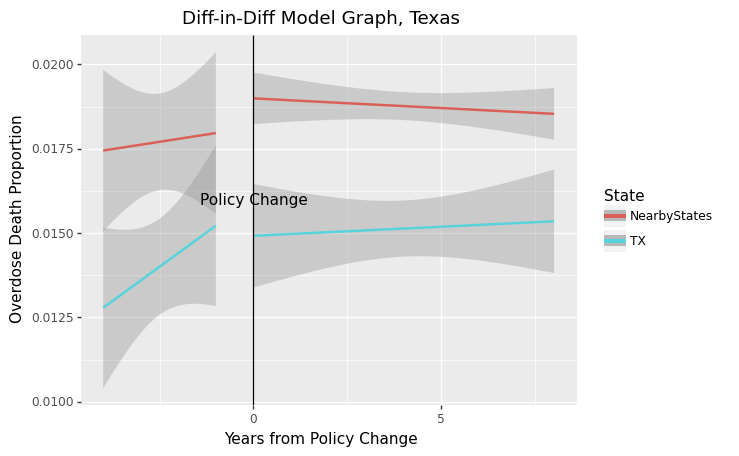
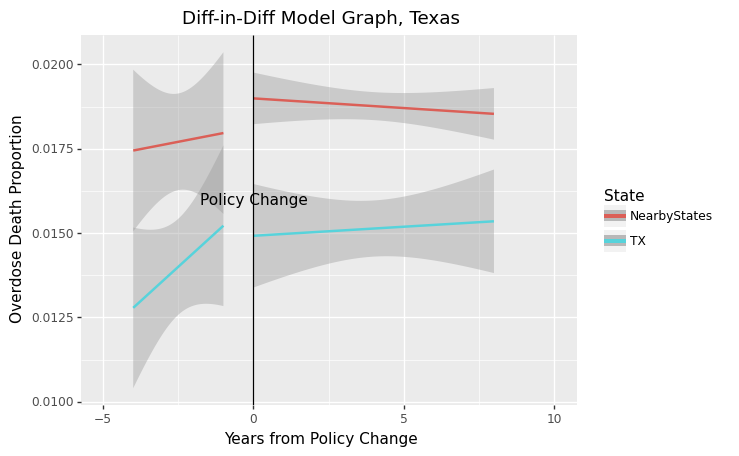
Rearranged the range of x-axis

diff --git a/10_code/plotDeath.py b/10_code/plotDeath.py
@@ -26,7 +26,8 @@ pre_TX = (ggplot(data[data['State'] == 'TX'], aes(x = 'YearDiff_TX', y='Overdose
         annotate('text', x = 0, y = 0.013, label='Policy Change') +
         labs(title='Pre-post Model Graph, Texas') +
         xlab('Years from Policy Change') +
-        ylab('Overdose Death Proportion')
+        ylab('Overdose Death Proportion') +
+        xlim(-5, 7)
 )
 ggsave(plot = pre_TX, filename = 'TX_pre_overdose', path = "C:/Users/renha/Desktop/graph")
 
@@ -37,7 +38,8 @@ pre_WA = (ggplot(data[data['State'] == 'WA'], aes(x = 'YearDiff_WA', y='Overdose
         annotate('text', x = 0, y = 0.013, label='Policy Change') +
         labs(title='Pre-post Model Graph, Washington') +
         xlab('Years from Policy Change') +
-        ylab('Overdose Death Proportion')
+        ylab('Overdose Death Proportion') +
+        xlim(-7, 5)
 )
 ggsave(plot = pre_WA, filename = 'WA_pre_overdose', path = "C:/Users/renha/Desktop/graph")
 
@@ -73,7 +75,8 @@ diff_TX = (ggplot(mergedTX, aes(y='OverdoseProp', color = 'State')) +
         annotate('text', x = 0, y = 0.016, label='Policy Change') +
         labs(title='Diff-in-Diff Model Graph, Texas') +
         xlab('Years from Policy Change') +
-        ylab('Overdose Death Proportion')
+        ylab('Overdose Death Proportion') +
+        xlim(-5, 10)
 )
 ggsave(plot = diff_TX, filename = 'TX_diff_overdose', path = "C:/Users/renha/Desktop/graph")
 
@@ -91,6 +94,7 @@ diff_WA = (ggplot(mergedWA, aes(y='OverdoseProp', color = 'State')) +
         annotate('text', x = 0, y = 0.014, label='Policy Change') +
         labs(title='Diff-in-Diff Model Graph, Washington') +
         xlab('Years from Policy Change') +
-        ylab('Overdose Death Proportion')
+        ylab('Overdose Death Proportion') +
+        xlim(-10, 5)
 )
 ggsave(plot = diff_WA, filename = 'WA_diff_overdose', path = "C:/Users/renha/Desktop/graph")
